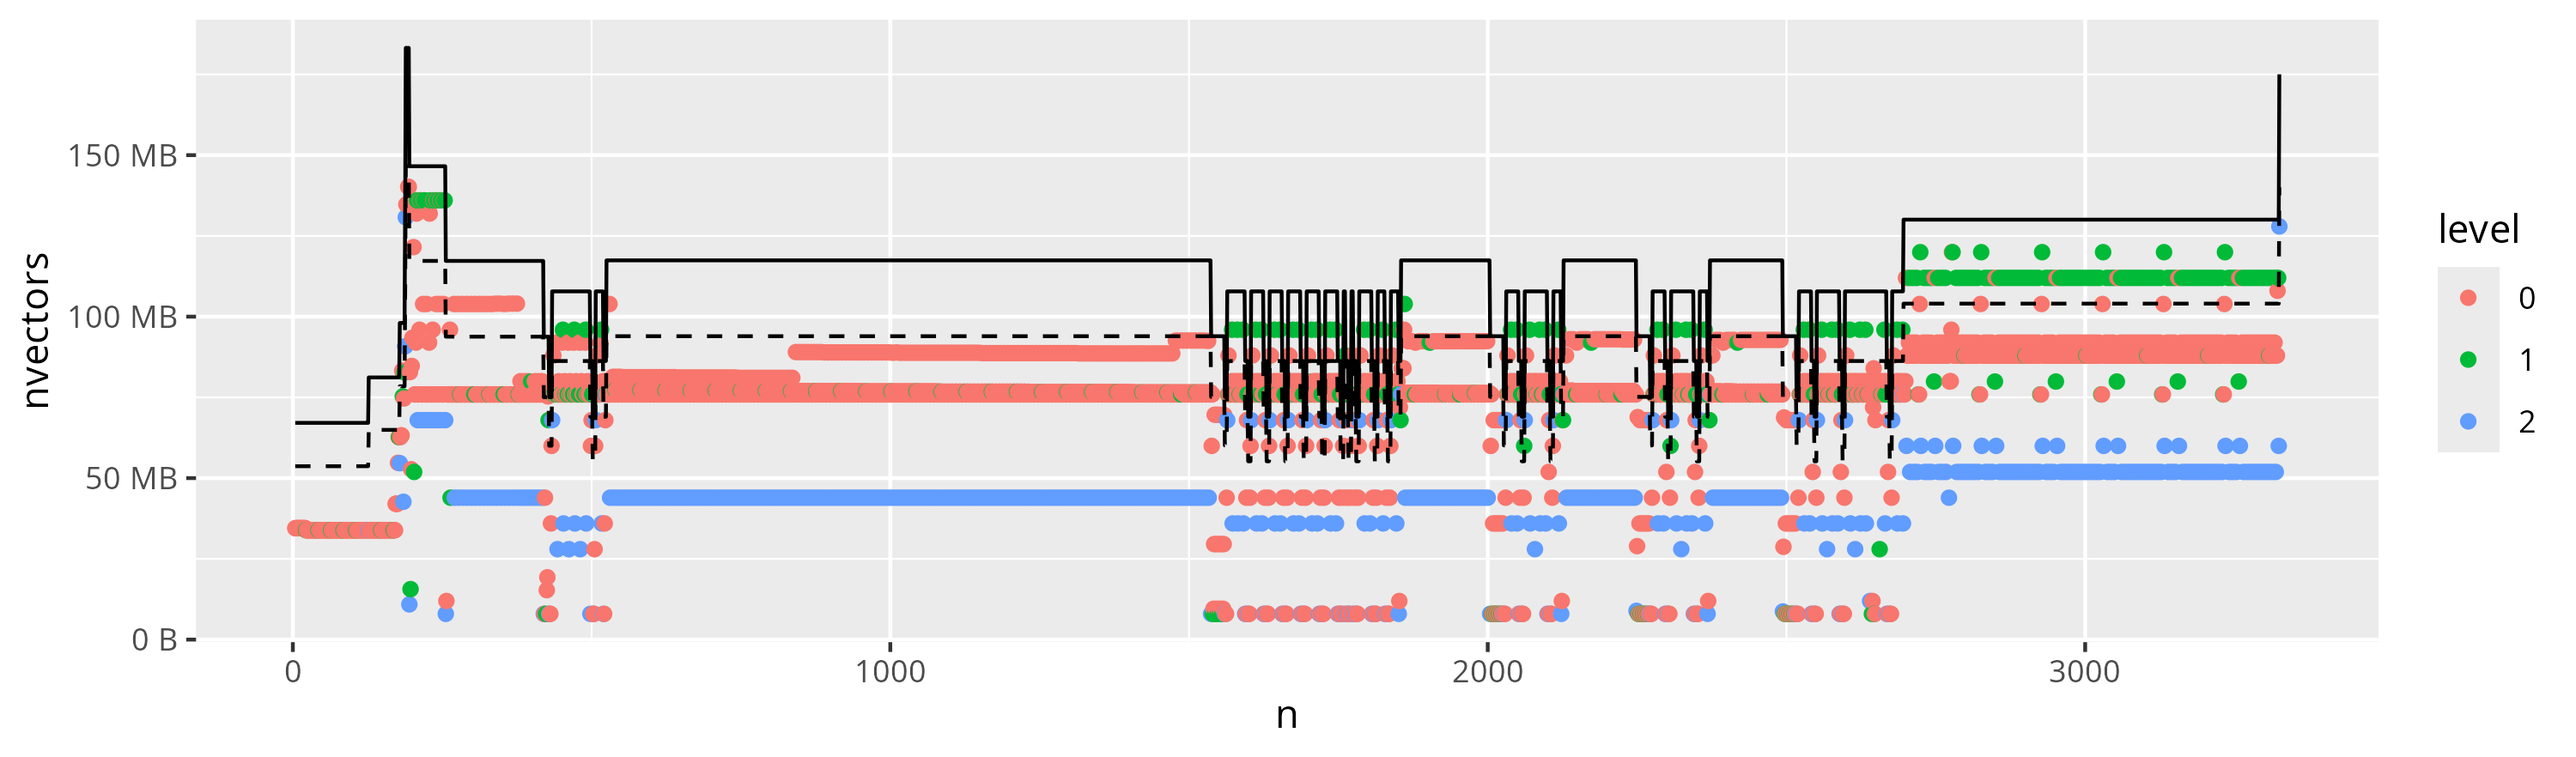
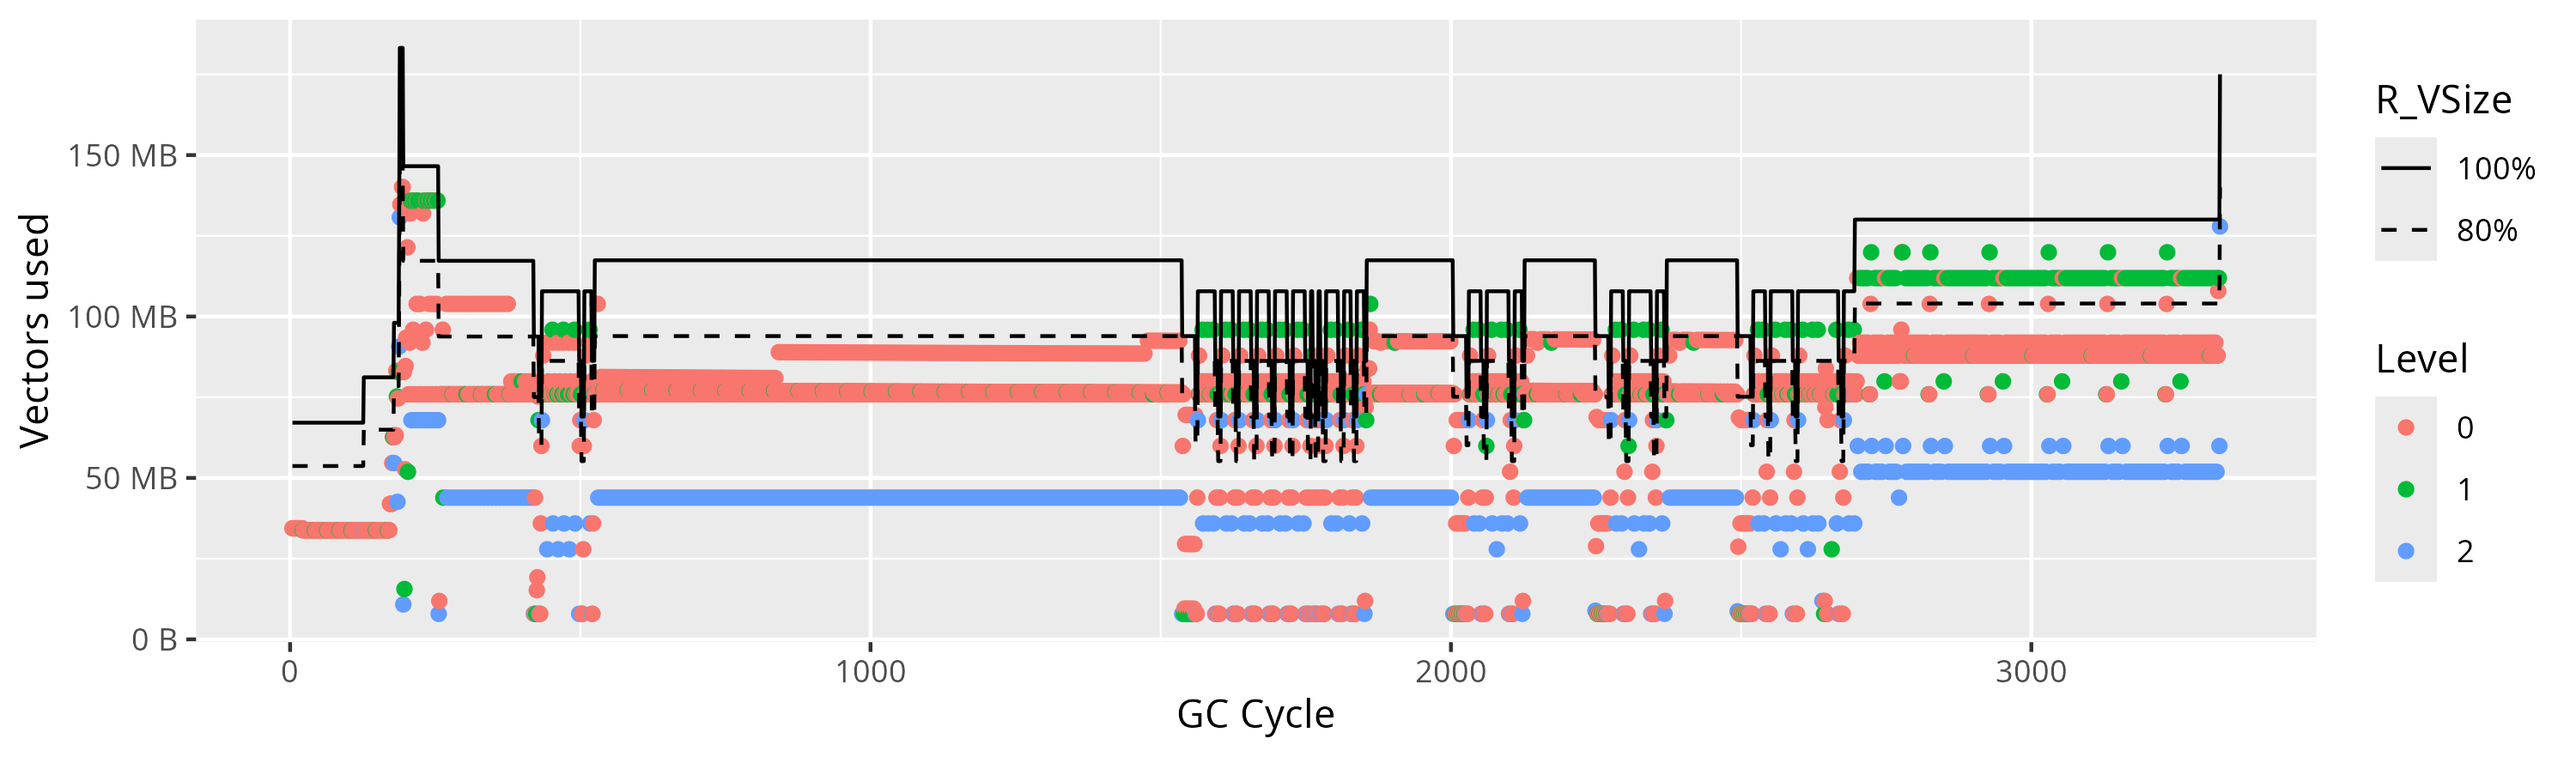
Updates

diff --git a/GC.md b/GC.md
@@ -313,7 +313,7 @@ dig into the source code of the R garbage collector.
 
 Most of the GC is implemented in the [`src/main/memory.c`][memory.c] file.
 Around the top of the file, we find a constant
-[`R_MinFreeFrac=0.2`][R_MinFreeFrac] which sounds a lot like the 20% mentioned
+[`R_MinFreeFrac = 0.2`][R_MinFreeFrac] which sounds a lot like the 20% mentioned
 in the internals manual. We can follow the uses of that constant into the end
 of the [`RunGenCollect`][RunGenCollect-1] function, which is the heart of the
 garbage collector. In there we find the line of code responsible for raising
@@ -331,20 +331,16 @@ In other words, if the allocated memory (`R_LargeVallocSize`,
 unallocated, it increases the `num_old_gens_to_collect` variable. This affects
 the level at which the garbage collector will run *next time*. In our case,
 presumably `R_VSize` is consistently too small, and we keep running into our
-20% buffer space, and keep having to raise our collection level.
+20% buffer space, and keep having to raise our collection level. This
+`R_VSize` is not informed by a physical limit of our machine: it is a limit
+that R sets for itself. Its value may flucuate as the interpreter infers how
+much memory our program needs.
 
 The data generated by `gcinfo()` includes the amount of allocated memory and
 the percentage of `R_VSize` this represents. We could use this to derive
 `R_VSize`, but we'd only get a fluctuating approximation due to the succesive
 roundings involved in printing the data. It is easy however to modify the R
 interpreter to add an extra line to include the `R_VSize` value in the output.
-
-----
-----
-----
-----
-
-This is where things stop making sense
 
 With [the modification applied][r-source.diff] and the R interpreter
 re-compiled, we can collect that value and add it to our garbage collection
@@ -354,6 +350,44 @@ plot:
 <img src="gcinfo-line.png" width="800"/>
 </p>
 
+----
+----
+----
+----
+
+The solid black line represents the value of R_VSize at each point in time, and
+the dashed line is 80% of R_VSize, in other words the threshold at which the
+collection level would be raised. The program clearly toes with this threshold,
+and at times does exceed it (here around the 3000th collection cycle), which
+could explain the garbage collector's behaviour. On the other hand, there are
+other times (around the 1000th cycle mark) where the size of allocated vectors
+is below this threshold and yet level-2 collection still occur frequently, or
+so it seems.
+
+In fact there's a detail I glossed over earlier: we saw that if a collection
+fails to provide 20% of free space, we raise the collection level of *the next
+cycle*. However, if we need to allocate memory **right now**, and there is not
+enough free memory to do so, the garbage collector will immediately try to
+collect garbage again, at the raised level. Because of how the logging enabled
+by `gcinfo()` is structured, we only see the final collection attempt in that
+sequence and miss the fact that an earlier collection could have happened.
+Again, lets modify the R interpreter to print those cases and include them in
+the graphs. To distinguish between a collection which freed up enough space to
+satisfy the current allocation and those which haven't and need to be retried,
+a different point shape is used. I'll also focus the plot to a shorter period
+of time.
+
+<p align="center">
+<img src="gcinfo-line2.png" width="800"/>
+</p>
+
+
+----
+----
+----
+----
+
+This is where things stop making sense
 
 It seems surprising that the garbage collector would allow us to repeatedly hit
 the 80% threshold and not do anything about it. Indeed, if we look back at the
